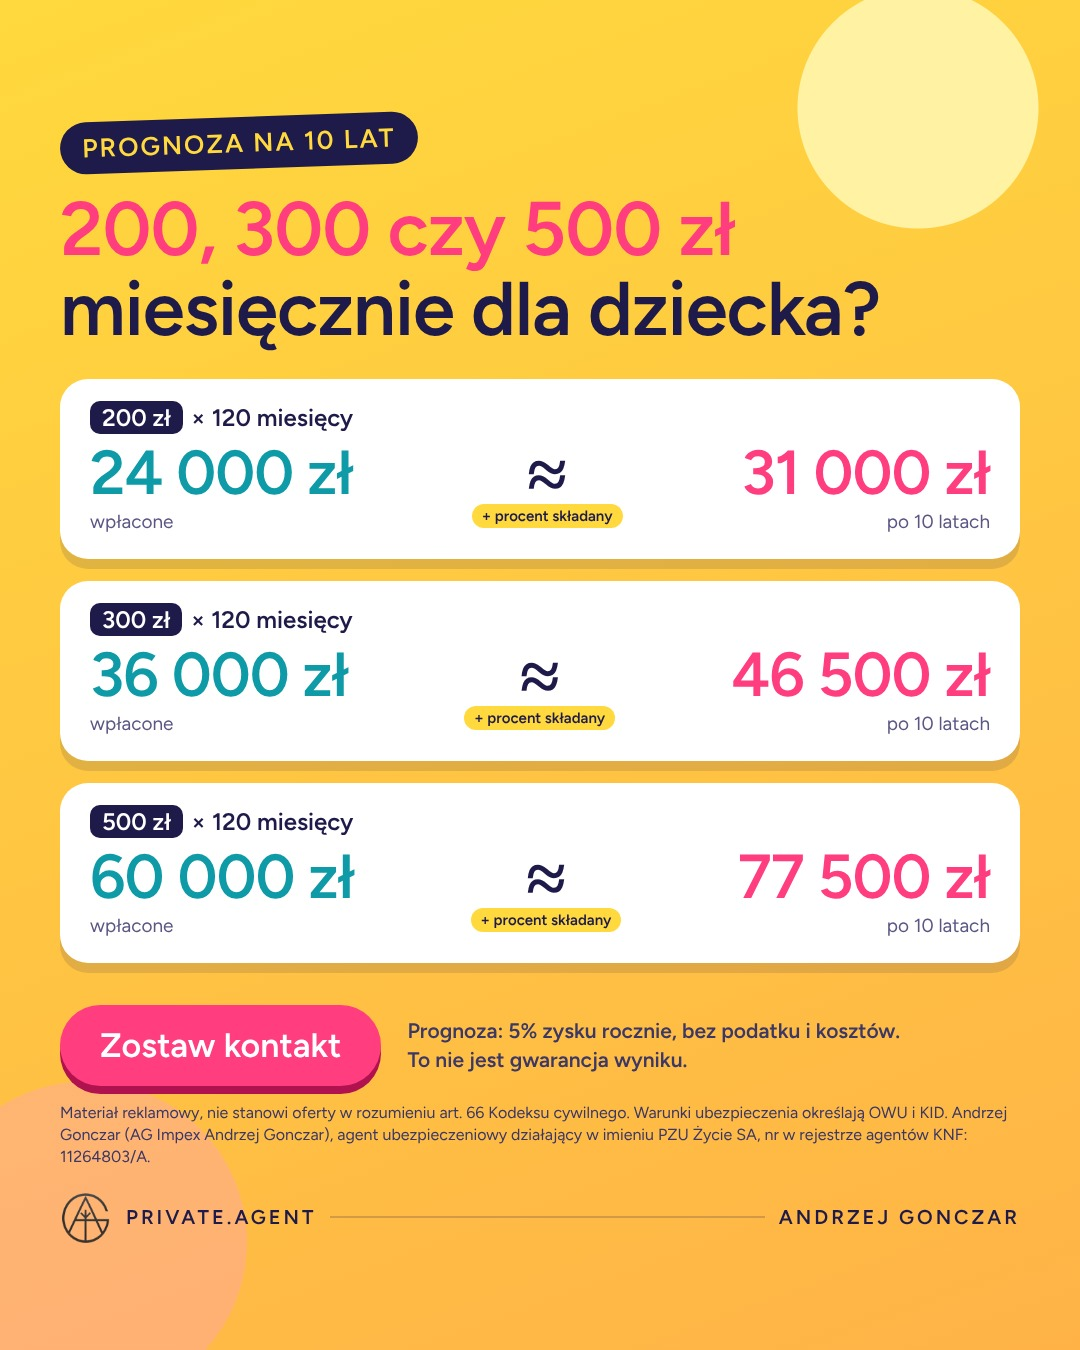
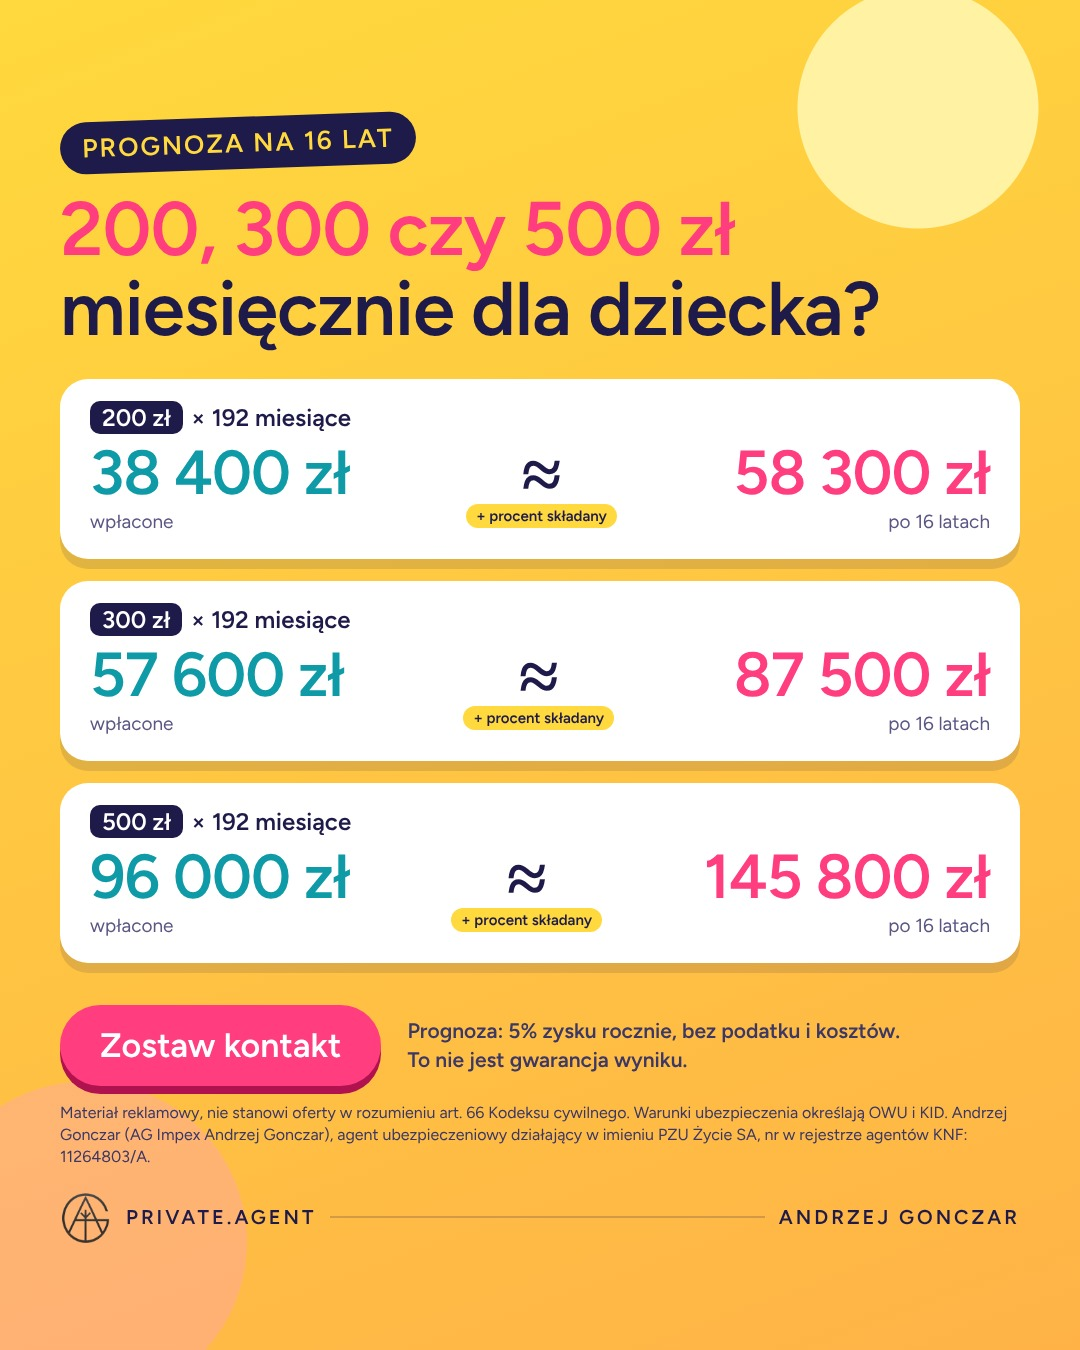
Kampania POSAG: prognoza na 16 lat
Claude-Session: https://claude.ai/code/session_01PysvEAD1NGhp7e2gF3vHjf

diff --git a/instagram/reklamy/posag-2026-11/reklama-posag.html b/instagram/reklamy/posag-2026-11/reklama-posag.html
@@ -33,20 +33,20 @@ h1 em{font-style:normal;color:#FF3D7F}
 .foot img{width:52px;height:52px;filter:brightness(0.35) saturate(0)}
 .foot .line{height:2px;flex:1;background:#1E1B4B33}
 </style></head><body>
-<div class="ey">PROGNOZA NA 10 LAT</div>
+<div class="ey">PROGNOZA NA 16 LAT</div>
 <h1><em>200, 300 czy 500 zł</em> miesięcznie dla dziecka?</h1>
-<div class="c"><div class="lab"><b>200 zł</b>× 120 miesięcy</div><div class="eq">
- <div class="l"><div class="n">24 000 zł</div><div class="s">wpłacone</div></div>
+<div class="c"><div class="lab"><b>200 zł</b>× 192 miesiące</div><div class="eq">
+ <div class="l"><div class="n">38 400 zł</div><div class="s">wpłacone</div></div>
  <div class="mid"><div class="ap">≈</div><div class="pc">+ procent składany</div></div>
- <div class="r"><div class="n">31 000 zł</div><div class="s">po 10 latach</div></div></div></div>
-<div class="c"><div class="lab"><b>300 zł</b>× 120 miesięcy</div><div class="eq">
- <div class="l"><div class="n">36 000 zł</div><div class="s">wpłacone</div></div>
+ <div class="r"><div class="n">58 300 zł</div><div class="s">po 16 latach</div></div></div></div>
+<div class="c"><div class="lab"><b>300 zł</b>× 192 miesiące</div><div class="eq">
+ <div class="l"><div class="n">57 600 zł</div><div class="s">wpłacone</div></div>
  <div class="mid"><div class="ap">≈</div><div class="pc">+ procent składany</div></div>
- <div class="r"><div class="n">46 500 zł</div><div class="s">po 10 latach</div></div></div></div>
-<div class="c"><div class="lab"><b>500 zł</b>× 120 miesięcy</div><div class="eq">
- <div class="l"><div class="n">60 000 zł</div><div class="s">wpłacone</div></div>
+ <div class="r"><div class="n">87 500 zł</div><div class="s">po 16 latach</div></div></div></div>
+<div class="c"><div class="lab"><b>500 zł</b>× 192 miesiące</div><div class="eq">
+ <div class="l"><div class="n">96 000 zł</div><div class="s">wpłacone</div></div>
  <div class="mid"><div class="ap">≈</div><div class="pc">+ procent składany</div></div>
- <div class="r"><div class="n">77 500 zł</div><div class="s">po 10 latach</div></div></div></div>
+ <div class="r"><div class="n">145 800 zł</div><div class="s">po 16 latach</div></div></div></div>
 <div class="bot"><div class="cta">Zostaw kontakt</div><div class="note big">Prognoza: 5% zysku rocznie, bez podatku i kosztów.<br>To nie jest gwarancja wyniku.</div></div>
 <div class="legal">Materiał reklamowy, nie stanowi oferty w rozumieniu art. 66 Kodeksu cywilnego. Warunki ubezpieczenia określają OWU i KID. Andrzej Gonczar (AG Impex Andrzej Gonczar), agent ubezpieczeniowy działający w imieniu PZU Życie SA, nr w rejestrze agentów KNF: 11264803/A.</div>
 <div class="foot"><img src="logo-t.png">PRIVATE.AGENT<div class="line"></div>ANDRZEJ GONCZAR</div>

diff --git a/instagram/reklamy/posag-2026-11/kampania.md b/instagram/reklamy/posag-2026-11/kampania.md
@@ -7,10 +7,10 @@ Biłgoraj + 40 km, 18+, 20 zł dziennie, test A/B przez 7 dni.
 - reklama-posag-1x1.jpg – Marketplace, prawa kolumna
 - reklama-posag-9x16.jpg – Stories i Reels
 
-Prognoza: 200/300/500 zł co miesiąc przez 120 miesięcy, 5% zysku rocznie, bez waloryzacji, podatku i kosztów.
-- 200 zł: wpłacone 24 000 zł ≈ 31 000 zł
-- 300 zł: wpłacone 36 000 zł ≈ 46 500 zł
-- 500 zł: wpłacone 60 000 zł ≈ 77 500 zł
+Prognoza: 200/300/500 zł co miesiąc przez 192 miesiące (16 lat), 5% zysku rocznie, bez waloryzacji, podatku i kosztów.
+- 200 zł: wpłacone 38 400 zł ≈ 58 300 zł
+- 300 zł: wpłacone 57 600 zł ≈ 87 500 zł
+- 500 zł: wpłacone 96 000 zł ≈ 145 800 zł
 
 Klauzula na grafice: Materiał reklamowy, nie stanowi oferty w rozumieniu art. 66 Kodeksu cywilnego. Warunki ubezpieczenia określają OWU i KID. Andrzej Gonczar (AG Impex Andrzej Gonczar), agent ubezpieczeniowy działający w imieniu PZU Życie SA, nr w rejestrze agentów KNF: 11264803/A.
 
@@ -19,7 +19,7 @@ STATUS: WSTRZYMANA do pisemnej zgody PZU Życie (umowa agencyjna § 5 ust. 2 –
 ## Wariant A – historia
 Tekst główny:
 Mój syn studiuje. Co miesiąc to ok. 2000 zł z bieżącego budżetu. Nie żałuję ani złotówki, ale jedną rzecz policzyłem za późno: małe kwoty odkładane wcześnie robią więcej niż duże na ostatnią chwilę.
-Na grafice prognoza dla 200, 300 i 500 zł miesięcznie po 10 latach.
+Na grafice prognoza dla 200, 300 i 500 zł miesięcznie po 16 latach.
 Zostaw kontakt w formularzu, oddzwonię i pokażę, jak to wygląda w polisie posagowej PZU. 👇
 
 Nagłówek: Kapitał dla dziecka na start
@@ -29,13 +29,13 @@ Przycisk: Dowiedz się więcej
 ## Wariant B – wiedza
 Tekst główny:
 3 rzeczy, które warto wiedzieć o odkładaniu dla dziecka:
-1. Czas robi więcej niż kwota. 200 zł przez 10 lat to 24 000 zł wpłat i ok. 31 000 zł w prognozie.
-2. Najkrótsza umowa trwa 10 lat, więc to plan, nie skarbonka na wakacje.
+1. Czas robi więcej niż kwota. 200 zł przez 16 lat to 38 400 zł wpłat i ok. 58 300 zł w prognozie.
+2. Im wcześniej start, tym większą część kwoty końcowej robi procent składany.
 3. Polisa posagowa łączy oszczędzanie z ochroną na wypadek, gdyby rodzica zabrakło.
 Jestem agentem ubezpieczeniowym PZU. Zostaw kontakt, a policzę prognozę dla wybranej kwoty. 👇
 
 Nagłówek: 200, 300 czy 500 zł miesięcznie?
-Opis: Prognoza na 10 lat, bez zobowiązań.
+Opis: Prognoza na 16 lat, bez zobowiązań.
 Przycisk: Dowiedz się więcej
 
 ## Formularz
